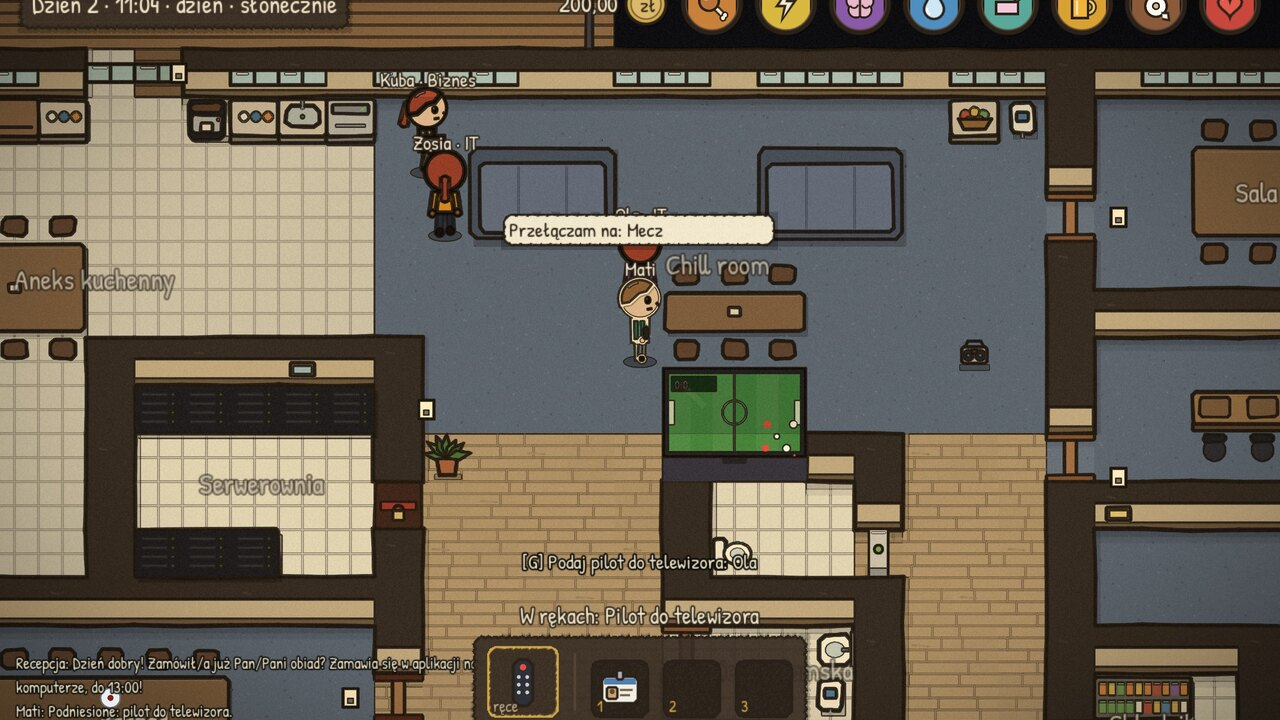
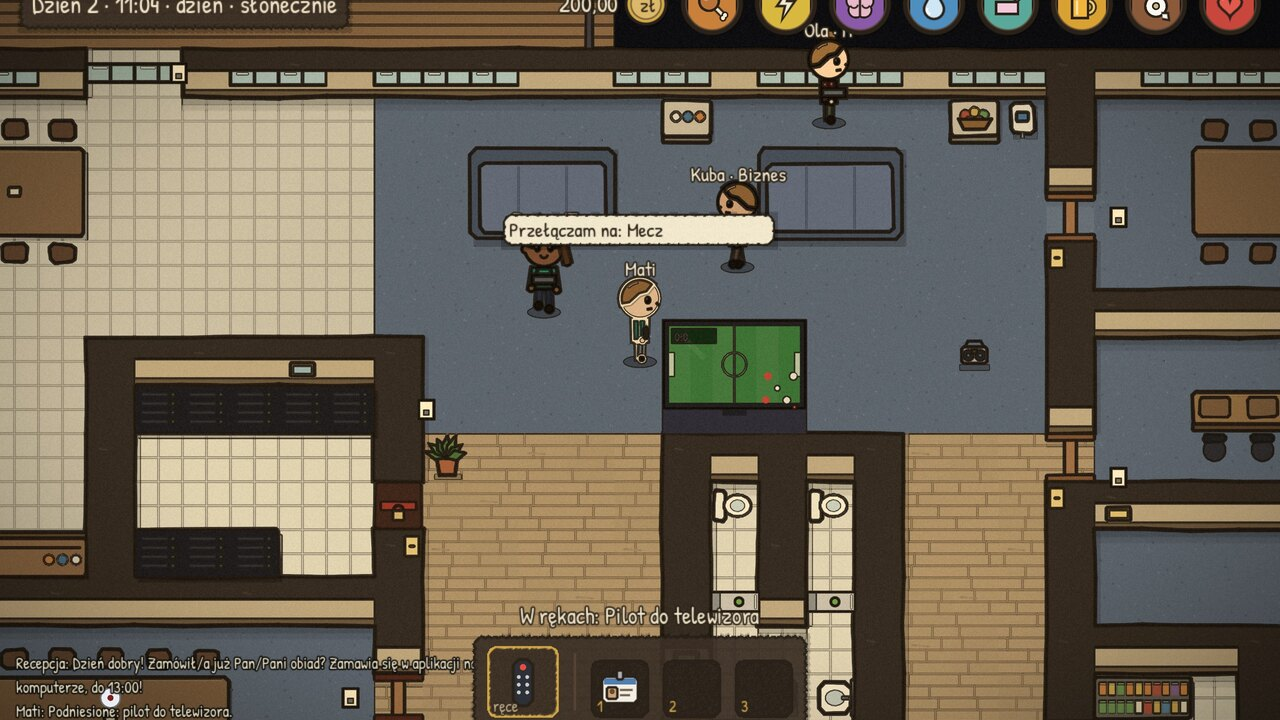
Nowy zwiastun i 4 zrzuty z mapy w README (#28)
- Zwiastun nagrany od nowa na obecnej mapie: deszcz - chodnikiem obok
  zamkniętego zjazdu do garażu pod wiatę palarni („Palarnia jak przystanek
  - autobus nie przyjedzie”), hol z panią Wiesią i Pauliną w fotelu,
  biuro, chill room (telewizor na nowym miejscu), sklep z kasjerem; GIF w
  README odświeżony.
- Galeria: 4 zrzuty z mapy (palarnia, portiernia, chill room, sklep)
  zamiast 10; w „Co jest w grze” bez „Psot” i „Oprawy”.

diff --git a/README.md b/README.md
@@ -12,7 +12,7 @@
 ![Rust](https://img.shields.io/badge/serwer-Rust-orange?logo=rust)
 ![Godot 4](https://img.shields.io/badge/klient-Godot%204-478cbf?logo=godotengine&logoColor=white)
 
-<img src="docs/media/zwiastun.gif" alt="Zwiastun: dojazd w deszczu, portiernia, biuro, chill room, sklep" width="720">
+<img src="docs/media/zwiastun.gif" alt="Zwiastun: palarnia w deszczu, portiernia, biuro, chill room, sklep" width="720">
 
 [**Pobierz na macOS**](https://github.com/mateuszpalak/startup-sim/releases/latest) ·
 [Sterowanie](docs/gra/sterowanie.md) ·
@@ -43,24 +43,12 @@ i tekstowym.
 
 <table>
   <tr>
-    <td width="50%"><img src="docs/media/portiernia.jpg" alt="Hol z portiernią"><br><sub>Pani Wiesia z portierni zawsze zagada</sub></td>
-    <td width="50%"><img src="docs/media/biuro.jpg" alt="Biuro"><br><sub>Biuro działu Biznes — inni gracze przy biurkach</sub></td>
+    <td width="50%"><img src="docs/media/portiernia.jpg" alt="Hol z portiernią"><br><sub>Pani Wiesia z portierni zawsze zagada (a Paulina siedzi w fotelu)</sub></td>
+    <td width="50%"><img src="docs/media/chill_room.jpg" alt="Chill room"><br><sub>Chill room: mecz w telewizorze, pilot w ręku</sub></td>
   </tr>
   <tr>
-    <td><img src="docs/media/chill_room.jpg" alt="Chill room"><br><sub>Chill room: mecz w telewizorze, pilot w ręku</sub></td>
-    <td><img src="docs/media/sklep.jpg" alt="Sklep"><br><sub>Sklep na parterze</sub></td>
-  </tr>
-  <tr>
-    <td><img src="docs/media/rekrutacja.jpg" alt="Formularz rekrutacyjny"><br><sub>Rekrutacja: portal z ofertami i formularz z widełkami</sub></td>
-    <td><img src="docs/media/umowa.jpg" alt="Umowa w HR"><br><sub>Umowa w HR — „drobna korekta, standard w branży”</sub></td>
-  </tr>
-  <tr>
-    <td><img src="docs/media/terminal.jpg" alt="Terminal"><br><sub>Firmowy komputer: terminal…</sub></td>
-    <td><img src="docs/media/przegladarka.jpg" alt="Przeglądarka"><br><sub>…i przeglądarka z wiadomościami z biura</sub></td>
-  </tr>
-  <tr>
-    <td><img src="docs/media/deszcz.jpg" alt="Dojazd w deszczu"><br><sub>Dojazd do pracy — pogoda zmienia się z dnia na dzień</sub></td>
-    <td><img src="docs/media/skret.jpg" alt="Skręcanie papierosa"><br><sub>Mini-gra: skręcanie papierosa</sub></td>
+    <td><img src="docs/media/palarnia.jpg" alt="Palarnia i zjazd do garażu"><br><sub>Palarnia jak przystanek (autobus nie przyjedzie) i zamknięty zjazd do garażu</sub></td>
+    <td><img src="docs/media/sklep.jpg" alt="Sklep"><br><sub>Sklep na parterze: „Jaka parówka wariacie?”</sub></td>
   </tr>
 </table>
 
@@ -82,10 +70,6 @@ i tekstowym.
   światło w oknach.
 - 🎙 **Razem** — czat głosowy (do pokoju albo szeptem), czat tekstowy,
   dziennik dnia i powiadomienia.
-- 😈 **Psoty** — alkohol z barku i jego skutki, nagany od zarządu, bójki,
-  ochrona i policja, sprzątaczka pani Maria.
-- 🎨 **Oprawa „papier i tusz”** — ręcznie rysowany wygląd, dźwięki i muzyka
-  generowane kodem.
 
 ## Pobierz i graj
 

diff --git a/tools/trailer/README.md b/tools/trailer/README.md
@@ -8,9 +8,10 @@ tools/trailer/record_all.sh     # ujęcia -> tools/trailer/out/<ujęcie>/*.jpg
 tools/trailer/build.sh          # -> tools/trailer/out/startup_sim_zwiastun.mp4
 ```
 
-Ujęcia (`record_all.sh`): plansza tytułowa, dojazd w deszczu, hol z panią
-Wiesią, biuro z botami, chill room (mecz w telewizorze, boombox), sklep na
-parterze. Każde to osobny serwer z flagami dev i klient z `--goto`; start
+Ujęcia (`record_all.sh`): plansza tytułowa, deszcz — chodnikiem obok
+zamkniętego zjazdu do garażu pod wiatę palarni, hol z panią Wiesią (i
+Pauliną w fotelu), biuro z botami, chill room (mecz w telewizorze, boombox),
+sklep na parterze („Jaka parówka wariacie?”). Każde to osobny serwer z flagami dev i klient z `--goto`; start
 nagrywania jest przesunięty o czas łączenia klienta.
 
 GIF do README (`docs/media/zwiastun.gif`, 640 px, 8 kl./s — GitHub nie
@@ -23,7 +24,7 @@ ffmpeg -framerate 8 -i $F/f%04d.png -vf "palettegen=max_colors=96:stats_mode=dif
 ffmpeg -framerate 8 -i $F/f%04d.png -i $F/pal.png -lavfi "paletteuse=dither=none:diff_mode=rectangle" docs/media/zwiastun.gif
 ```
 
-Zrzuty ekranu w `docs/media/` to klatki z `tools/trailer/out/<ujęcie>/`
+Zrzuty ekranu w `docs/media/` (4: palarnia, portiernia, chill room, sklep) to klatki z `tools/trailer/out/<ujęcie>/`
 przycięte do 1280×720 (`magick … -resize 1280x720^ -gravity center -extent 1280x720`).
 
 - `shoot.sh` — jedno ujęcie: serwer na porcie 7790 (flagi dev), opcjonalnie
